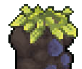
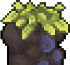
update tile sprite with refined graphics and fix ERB string escaping in level view

diff --git a/db/schema.rb b/db/schema.rb
@@ -1,0 +1,20 @@
+# This file is auto-generated from the current state of the database. Instead
+# of editing this file, please use the migrations feature of Active Record to
+# incrementally modify your database, and then regenerate this schema definition.
+#
+# This file is the source Rails uses to define your schema when running `bin/rails
+# db:schema:load`. When creating a new database, `bin/rails db:schema:load` tends to
+# be faster and is potentially less error prone than running all of your
+# migrations from scratch. Old migrations may fail to apply correctly if those
+# migrations use external dependencies or application code.
+#
+# It's strongly recommended that you check this file into your version control system.
+
+ActiveRecord::Schema[8.1].define(version: 2025_12_12_130100) do
+  create_table "levels", force: :cascade do |t|
+    t.datetime "created_at", null: false
+    t.json "map", default: [], null: false
+    t.string "name", null: false
+    t.datetime "updated_at", null: false
+  end
+end
